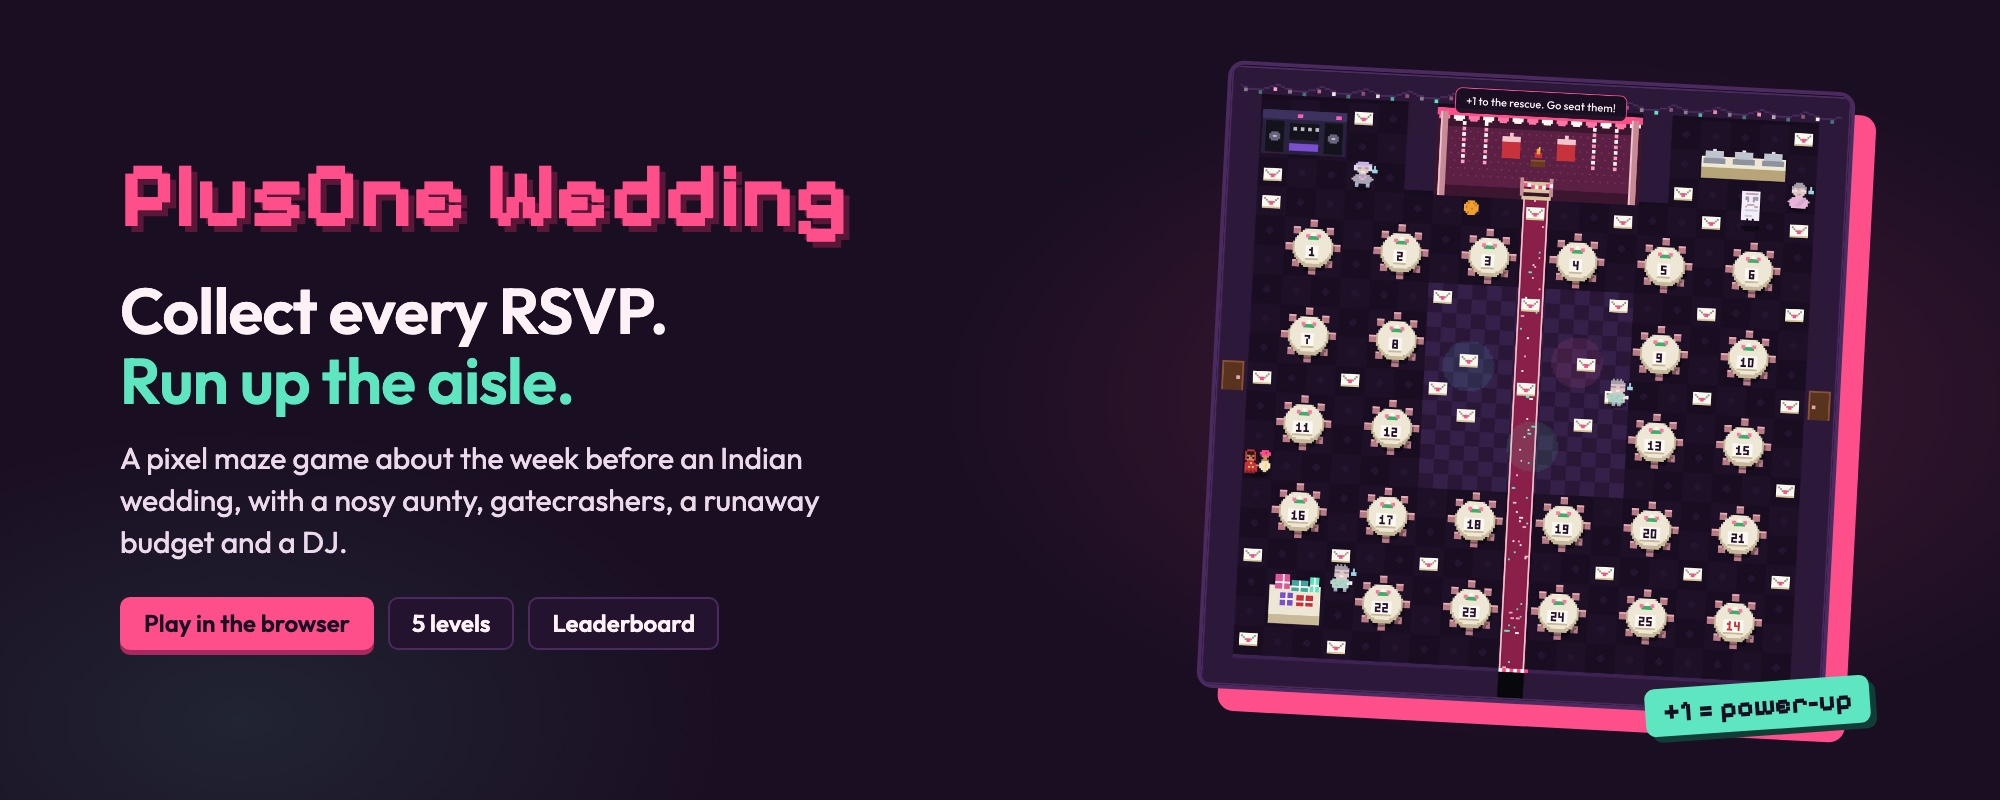
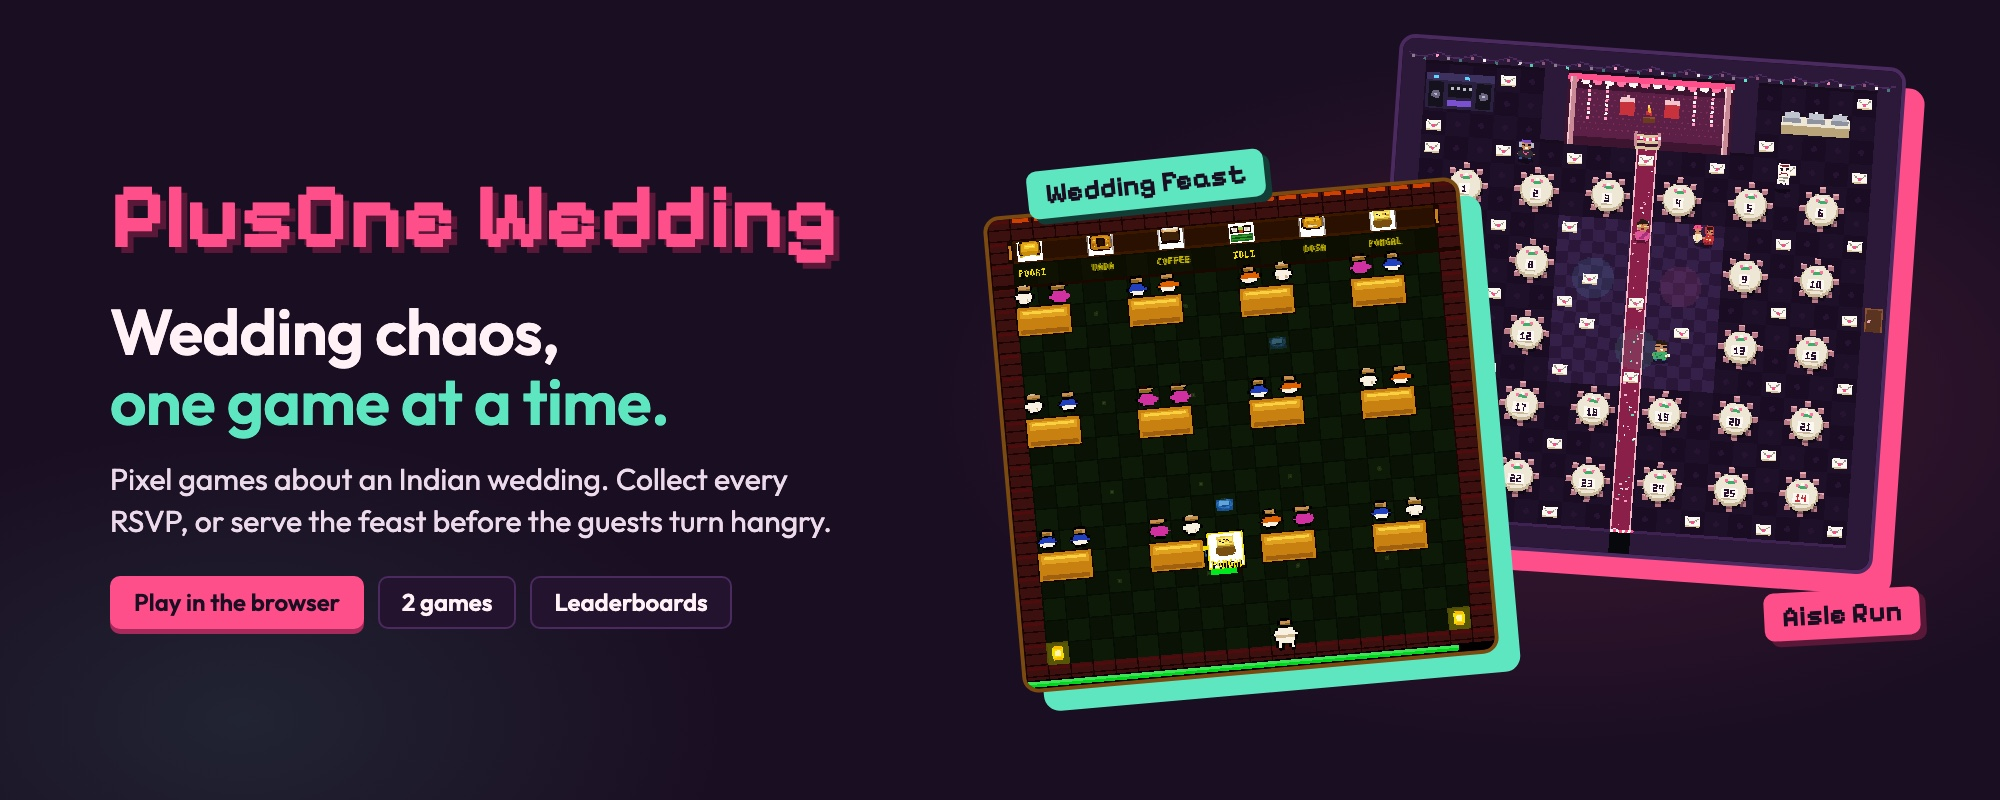
Rewrite the README for the splash, the picker and both games
New banner with both boards, fresh screenshots of the splash, the
picker, both games' rules and play, the leaderboard and phones. Adds a
Wedding Feast section, the measured checks, and the per-game folders.
Drops the stale phone rules screenshot.

diff --git a/assets/src/banner.html b/assets/src/banner.html
@@ -5,7 +5,7 @@
   html, body { margin: 0; width: 2000px; height: 800px; overflow: hidden; background: #1a0e22; }
   body { position: relative; font-family: Outfit, sans-serif; color: #fff1f5; }
   .glow { position: absolute; inset: 0; background: radial-gradient(900px 500px at 78% 50%, rgba(255, 79, 139, .18), transparent 70%), radial-gradient(700px 420px at 12% 90%, rgba(94, 230, 193, .10), transparent 70%); }
-  .left { position: absolute; left: 120px; top: 0; bottom: 0; width: 860px; display: flex; flex-direction: column; justify-content: center; }
+  .left { position: absolute; left: 110px; top: 0; bottom: 0; width: 780px; display: flex; flex-direction: column; justify-content: center; }
   .wm { font: 700 92px/1 "Pixelify Sans"; color: #ff4f8b; text-shadow: 6px 6px 0 #5a1838; margin: 0 0 34px; }
   h1 { margin: 0 0 22px; font: 600 64px/1.08 Outfit; letter-spacing: -.01em; }
   h1 span { color: #5ee6c1; }
@@ -13,18 +13,24 @@
   .chips { display: flex; gap: 14px; }
   .chip { padding: 10px 22px; border-radius: 10px; font: 600 24px/1.2 Outfit; border: 2px solid #4a2a5e; background: #24132f; }
   .chip.rose { background: #ff4f8b; border-color: #ff4f8b; color: #1a0e22; box-shadow: 0 5px 0 #a82a5c; }
-  .card { position: absolute; right: 160px; top: 76px; width: 620px; height: 620px; transform: rotate(3deg); border-radius: 16px; overflow: hidden; border: 4px solid #4a2a5e; box-shadow: 22px 22px 0 #ff4f8b; background: #140a1a; }
-  .card img { width: 100%; height: 100%; display: block; }
-  .tag { position: absolute; right: 130px; bottom: 70px; transform: rotate(-4deg); padding: 10px 18px; border-radius: 10px; background: #5ee6c1; color: #1a0e22; font: 700 28px/1 "Pixelify Sans"; box-shadow: 6px 6px 0 #123d36; }
+  .card { position: absolute; width: 500px; height: 500px; border-radius: 16px; overflow: hidden; background: #140a1a; }
+  .card img { width: 100%; height: 100%; display: block; image-rendering: pixelated; }
+  .card.aisle { right: 110px; top: 50px; transform: rotate(4deg); border: 4px solid #4a2a5e; box-shadow: 20px 20px 0 #ff4f8b; }
+  .card.feast { right: 520px; top: 196px; width: 470px; height: 470px; transform: rotate(-5deg); border: 4px solid #7a4a10; box-shadow: 20px 20px 0 #5ee6c1; }
+  .tag { position: absolute; padding: 10px 18px; border-radius: 10px; font: 700 28px/1 "Pixelify Sans"; }
+  .tag.aisle { right: 80px; top: 590px; transform: rotate(-3deg); background: #ff4f8b; color: #1a0e22; box-shadow: 6px 6px 0 #5a1838; }
+  .tag.feast { right: 735px; top: 160px; transform: rotate(-6deg); background: #5ee6c1; color: #1a0e22; box-shadow: 6px 6px 0 #123d36; }
 </style></head>
 <body>
   <div class="glow"></div>
   <div class="left">
     <div class="wm">PlusOne Wedding</div>
-    <h1>Collect every RSVP.<br><span>Run up the aisle.</span></h1>
-    <p>A pixel maze game about the week before an Indian wedding, with a nosy aunty, gatecrashers, a runaway budget and a DJ.</p>
-    <div class="chips"><span class="chip rose">Play in the browser</span><span class="chip">5 levels</span><span class="chip">Leaderboard</span></div>
+    <h1>Wedding chaos,<br><span>one game at a time.</span></h1>
+    <p>Pixel games about an Indian wedding. Collect every RSVP, or serve the feast before the guests turn hangry.</p>
+    <div class="chips"><span class="chip rose">Play in the browser</span><span class="chip">2 games</span><span class="chip">Leaderboards</span></div>
   </div>
-  <div class="card"><img src="../screens/power.jpg" alt=""></div>
-  <div class="tag">+1 = power-up</div>
+  <div class="card aisle"><img src="../../public/games/aisle-run/thumb.png" alt=""></div>
+  <div class="card feast"><img src="../../public/games/wedding-feast/thumb.png" alt=""></div>
+  <div class="tag feast">Wedding Feast</div>
+  <div class="tag aisle">Aisle Run</div>
 </body></html>

diff --git a/README.md b/README.md
@@ -1,10 +1,13 @@
 <div align="center">
 
-<img src="assets/banner.jpg" width="100%" alt="PlusOne Wedding banner: the pixel banquet hall with tables, RSVP envelopes and the mandap, beside the line Collect every RSVP. Run up the aisle.">
+<img src="assets/banner.jpg" width="100%" alt="PlusOne Wedding banner: the line Wedding chaos, one game at a time, beside the boards of Wedding Feast and Aisle Run on tilted cards">
 
 # PlusOne Wedding
 
 [![Play now](https://img.shields.io/badge/Play_now-plusonewedding.site-ff4f8b?style=for-the-badge&logo=googlechrome&logoColor=white)](https://plusonewedding.site)
+[![Aisle Run](https://img.shields.io/badge/Aisle_Run-play-5ee6c1?style=for-the-badge&labelColor=1a0e22)](https://plusonewedding.site/games/aisle-run/)
+[![Wedding Feast](https://img.shields.io/badge/Wedding_Feast-play-5ee6c1?style=for-the-badge&labelColor=1a0e22)](https://plusonewedding.site/games/wedding-feast/)
+[![Add a game](https://img.shields.io/badge/Add_a_game-CONTRIBUTING.md-c4a8c8?style=for-the-badge&labelColor=1a0e22)](CONTRIBUTING.md)
 
 ![Studio](https://img.shields.io/badge/studio-Devs_on_Crack-ff4f8b?style=flat-square&labelColor=1a0e22)
 ![Genre](https://img.shields.io/badge/genre-wedding--chaos_games-5ee6c1?style=flat-square&labelColor=1a0e22)
@@ -14,9 +17,9 @@
 
 <table align="center">
   <tr>
-    <td align="center" width="200"><img src="assets/logos/html5.svg" width="56" height="56" alt="HTML5"><br><b>HTML Canvas</b><br><sub>The game. Pixel art drawn in code, at 336 × 336, scaled up crisp.</sub></td>
-    <td align="center" width="200"><img src="assets/logos/cloudflareworkers.svg" width="56" height="56" alt="Cloudflare Workers"><br><b>Cloudflare Workers</b><br><sub>The platform. Serves the site and the leaderboard API.</sub></td>
-    <td align="center" width="200"><img src="assets/logos/sqlite.svg" width="56" height="56" alt="SQLite"><br><b>Cloudflare D1</b><br><sub>The memory. Keeps every saved name and score.</sub></td>
+    <td align="center" width="200"><img src="assets/logos/html5.svg" width="56" height="56" alt="HTML5"><br><b>HTML Canvas</b><br><sub>The games. Pixel art drawn in code, at 336 × 336, scaled up crisp.</sub></td>
+    <td align="center" width="200"><img src="assets/logos/cloudflareworkers.svg" width="56" height="56" alt="Cloudflare Workers"><br><b>Cloudflare Workers</b><br><sub>The platform. Serves the site and every game's leaderboard API.</sub></td>
+    <td align="center" width="200"><img src="assets/logos/sqlite.svg" width="56" height="56" alt="SQLite"><br><b>Cloudflare D1</b><br><sub>The memory. Keeps every saved name and score, game by game.</sub></td>
   </tr>
 </table>
 
@@ -26,14 +29,24 @@
 
 </div>
 
-PlusOne Wedding is a set of pixel games about Indian weddings. The home page is a game picker; each game has its own page and its own leaderboard. They run in any browser, on a phone or a laptop, with nothing to install.
+PlusOne Wedding is a set of pixel games about Indian weddings. They run in any browser, on a phone or a laptop, with nothing to install. The site opens on the Devs on Crack splash, then a game picker. Each game has its own page, its own controls and its own leaderboard.
 
-- **Aisle Run** (`/games/aisle-run/`): a maze game about the week before the wedding. You play the couple-to-be, racing round a banquet hall to collect every guest's RSVP while the wedding chaos tries to stop you. Get every RSVP in, then run up the aisle to the mandap.
-- **Wedding Feast** (`/games/wedding-feast/`): you're the server at a South Indian wedding. Grab the right dish off the food belt and get it to the table before the guests turn hangry.
+- **Aisle Run**: the week before the wedding. You're the couple-to-be, collecting every guest's RSVP round a banquet hall while the wedding chaos tries to stop you, then running up the aisle to the mandap.
+- **Wedding Feast**: the wedding lunch. You're the server at a South Indian wedding, taking the right dish off the food belt to the right table before the guests turn hangry.
 
-Made by **Devs on Crack**. This repository is the home of the wedding-themed games on plusonewedding.site.
+Made by **Devs on Crack**. This repository is the home of the wedding games on plusonewedding.site, and more are on the way.
 
-## Aisle Run: how it plays
+## How it opens
+
+1. **The splash.** "Devs on Crack" in pixel type over a pixel loading bar. It holds until the fonts and game boards have loaded, then fades to the picker. It shows once per visit, and a click or key press skips it.
+2. **The picker.** One card per game: a real frame from the game's board, its name, one line on what you do, and your best score once you've played.
+3. **The game.** Every game opens on its rules card with a Start button, so nothing moves until you're ready. The **‹** button at the top left goes back to the picker.
+
+| The splash | The picker |
+|---|---|
+| ![The Devs on Crack splash with its pixel loading bar](assets/screens/splash.jpg) | ![The game picker with cards for Aisle Run and Wedding Feast](assets/screens/picker.jpg) |
+
+## Aisle Run
 
 1. **Read the rules.** A pop-up explains the game, the four steps, the power-ups and the chaos before the first game. The **How to play** button brings it back at any time.
 2. **Collect every RSVP.** There are 49 envelopes around the hall. You start with **three days** until the wedding, and the days carry across all five levels.
@@ -43,11 +56,9 @@ Made by **Devs on Crack**. This repository is the home of the wedding-themed gam
 
 | The rules, before the first game | The board, mid-level |
 |---|---|
-| ![Rules pop-up](assets/screens/rules.jpg) | ![The banquet hall mid-level](assets/screens/play.jpg) |
+| ![Aisle Run's rules pop-up](assets/screens/rules.jpg) | ![The banquet hall mid-level](assets/screens/play.jpg) |
 
 <p align="center"><img src="assets/screens/power.jpg" width="640" alt="The +1 power-up in play: the chaos turns pastel and runs from the couple"></p>
-
-### The chaos
 
 | Character | What it does |
 |---|---|
@@ -58,43 +69,69 @@ Made by **Devs on Crack**. This repository is the home of the wedding-themed gam
 
 Seated by the +1, Aunty goes to Table 14, far from the mic. The gatecrasher gets a polite name card, the invoice gets negotiated down, and the DJ finally plays your song. Snacks float across the hall for extra points: a laddoo, a mehendi cone, and a slice of cake the caterer swore was gluten-free.
 
-### Levels
+**Levels:** Mehendi, Sangeet, Haldi, Wedding day, Reception. Every level uses the same hall and gets harder: more gatecrashers, a faster budget, a quicker aunty and DJ, and a shorter +1.
 
-Mehendi, Sangeet, Haldi, Wedding day, Reception. Every level uses the same hall and gets harder: more gatecrashers, a faster budget, a quicker aunty and DJ, and a shorter +1. Clearing Reception says "New levels coming soon."
+## Wedding Feast
 
-### Leaderboard
+1. **Watch the tables.** A dish floats above every table with an order, and the bar under it is the time left.
+2. **Go to the food belt.** Dishes ride along the belt at the top of the hall. Step under the one a table wants and you pick it up.
+3. **Rush it over.** Get close to the table and the dish is served. A fast delivery scores 250, a slower one 175, a late-but-made-it one 100.
+4. **Don't be late.** An order that runs out starts a fight between relatives, and the wedding's happiness drops. At zero, the feast is over.
+5. **Watch your step.** A monkey crashes the hall and slows you down if it catches you, and stepping in a sambar puddle with a dish in hand makes you drop it.
 
-At game over, or after clearing all five levels, players put their name on the public leaderboard. The top 20 show from the **Leaderboard** button.
-
-| The leaderboard | On a phone |
+| The rules, before the first round | Breakfast, with two orders up |
 |---|---|
-| ![Leaderboard](assets/screens/leaderboard.jpg) | <img src="assets/screens/phone-play.jpg" width="320" alt="The game on a phone, with the direction pad"> |
+| ![Wedding Feast's rules pop-up](assets/screens/feast-rules.jpg) | ![Wedding Feast mid-round: the food belt along the top, tables with guests, and orders for Pongal and Coffee](assets/screens/feast-play.jpg) |
 
-## Wedding Feast: how it plays
+| Round | Tables | Dishes | Pace |
+|---|---|---|---|
+| **Breakfast** | 12 | Idli, Dosa, Pongal, Poori, Vada, Coffee | Generous time, a slow belt |
+| **Lunch** | 16 | Rice, Sambar, Rasam, Kootu, Payasam, Appam | Medium |
+| **Dinner** | 20 | Biryani, Parotta, Cake, Pasta, Ice cream, Halwa | Fast orders, a fast belt |
 
-Orders float above the tables, each with a timer. Walk to the food belt along the top of the hall, step under the dish a table wants to pick it up, and carry it over before the timer runs out. A late order starts a fight between relatives and the wedding's happiness drops; at zero, the feast is over. Three rounds, each with more tables, faster orders and a faster belt: **Breakfast** (12 tables), **Lunch** (16) and **Dinner** (20). Scores go on their own leaderboard.
+Clearing a round banks a bonus of 5 points for every percent of happiness left.
+
+## Leaderboards
+
+Each game has its own public leaderboard. At game over, or after the last level or round, players put their name on it. The top 20 show from the **Leaderboard** button.
+
+<p align="center"><img src="assets/screens/leaderboard.jpg" width="760" alt="Aisle Run's leaderboard"></p>
+
+On a phone, the picker becomes a list and every game gets a direction pad:
+
+<p align="center"><img src="assets/screens/phone-picker.jpg" width="300" alt="The game picker on a phone">&nbsp;&nbsp;&nbsp;<img src="assets/screens/phone-play.jpg" width="300" alt="Aisle Run on a phone, with the direction pad"></p>
+
+## Checked
+
+| What | Result | How |
+|---|---|---|
+| One screen, no scroll | Fits at 1280 × 800, 1440 × 900, 390 × 750 and 360 × 740, on the picker and both games | Headless Chrome with CDP device emulation, `scrollHeight` against `clientHeight` and `scrollWidth` against `clientWidth`, 2 November 2026 |
+| Top bars on phones | No button runs past the 16 px gutter at 390 or 360 wide | Same run |
+| Wedding Feast name entry | Typing "Sandra wade" into the name box keeps every letter; P pauses and Esc resumes | Real key events through CDP |
+| Live site | `/`, both games and both leaderboard APIs return 200; old `/?beat=` links redirect to Aisle Run | `curl` against plusonewedding.site |
 
 ## The tech, part by part
 
 | Part | Built with | What it does |
 |---|---|---|
-| Game engine | Plain JavaScript and HTML Canvas, `public/games/<game>/game.js` | A 21 × 21 tile hall drawn at 336 × 336 and scaled up pixel-sharp. Grid movement with turn buffering, breadth-first pathfinding for the chasers, and a frame loop with a capped time step. |
-| Pixel art | String-map sprites in each game's `game.js` | Every character, table and pickup is drawn from code; the pastel "panic" versions are recoloured at load. |
-| Sound | Web Audio API | A shehnai-style tune, dhol beats and every sound effect are synthesised in the browser. No audio files. |
-| Game picker | `public/index.html`, `public/home.css` | The home page: one card per game, with a real frame from the game and this browser's best score. |
+| Splash and picker | `public/index.html`, `public/home.css` | The Devs on Crack loading screen, then one card per game with a frame from its board and the player's best score. |
+| Game engines | Plain JavaScript and HTML Canvas, `public/games/<game>/game.js` | Each game draws a 336 × 336 board and scales it up pixel-sharp. Aisle Run is a 21 × 21 tile hall with turn buffering and breadth-first pathfinding for the chasers; Wedding Feast is a tile hall with a moving food belt, timed orders and roaming hazards. Both run a frame loop with a capped time step. |
+| Pixel art | String-map sprites in each game's `game.js` | Every character, table, dish and pickup is drawn from code. |
+| Sound | Web Audio API | Tunes, beats and every sound effect are synthesised in the browser. No audio files. |
 | Page and layout | Each game's `index.html` and `style.css` | One screen with no scrolling: the board grows to fit, with a touch pad on phones. Pixelify Sans and Outfit from Google Fonts. |
-| Hosting | Cloudflare Workers with static assets, `worker.js`, `wrangler.toml` | Serves the site on `plusonewedding.site` and `www`, and redirects `www` to the apex. |
-| Leaderboard API | `worker.js` | Aisle Run: `POST /api/run` starts a run, `POST /api/score` saves one score per run, `GET /api/leaderboard` returns the top 20. Wedding Feast has the same three under `/api/feast/`. |
+| Hosting | Cloudflare Workers with static assets, `worker.js`, `wrangler.toml` | Serves `plusonewedding.site` and redirects `www` to the apex. Old `/?beat=N` share links redirect to Aisle Run. |
+| Leaderboard APIs | `worker.js` | Aisle Run: `POST /api/run` starts a run, `POST /api/score` saves one score per run, `GET /api/leaderboard` returns the top 20. Wedding Feast has the same three under `/api/feast/`. |
 | Leaderboard data | Cloudflare D1 `plusone-wedding-scores`, `schema.sql` | `runs` and `scores` for Aisle Run, `feast_runs` and `feast_scores` for Wedding Feast. |
-| Fair play | `worker.js` | Each run saves once, a score must be reachable in the time played, and names with common English and Hindi slurs are refused. |
+| Fair play | `worker.js` | Each run saves once, names with common English and Hindi slurs are refused, and a score must be reachable in the time played. Aisle Run allows up to 500 points a second; Wedding Feast up to 200 a second, a maximum of 40,000, and later rounds only after the time it takes to reach them. |
 
 ## Run it yourself
 
-You need a current Node LTS, and a Cloudflare account for the leaderboard.
+You need a current Node LTS, and a Cloudflare account for the leaderboards.
 
 ```bash
 gh repo clone padmanabhan-r/plusonewedding-games && cd plusonewedding-games
-npx wrangler dev          # site and leaderboard API on http://localhost:8787
+npx wrangler d1 execute plusone-wedding-scores --local --file schema.sql   # local database, once
+npx wrangler dev                                                           # site and leaderboard APIs on http://localhost:8787
 ```
 
 The games also run without the API (the leaderboards just won't load):
@@ -110,13 +147,6 @@ npx wrangler d1 execute plusone-wedding-scores --remote --file schema.sql
 npx wrangler deploy
 ```
 
-First-time database setup, already done for the live site:
-
-```bash
-npx wrangler d1 create plusone-wedding-scores
-npx wrangler d1 execute plusone-wedding-scores --remote --file schema.sql
-```
-
 There are no environment variables. The Worker's only bindings are `ASSETS` (the `public/` folder) and `DB` (the D1 database), both in `wrangler.toml`.
 
 ## Status and limits
@@ -125,34 +155,31 @@ Live at [plusonewedding.site](https://plusonewedding.site) with two games, sound
 
 - All five Aisle Run levels share one hall layout.
 - The fair-play checks stop casual cheating, not a determined script.
-- The leaderboard shows the top 20; ranks beyond that are only shown to the player who saved.
+- Each leaderboard shows the top 20; ranks beyond that are only shown to the player who saved.
 
 ## Next steps
 
-- **New levels:** new halls with their own layouts.
-- **More games:** more wedding-themed games, each in its own folder (see [Adding a game](#adding-a-game)).
-- **Weekly leaderboard:** a this-week board beside the all-time one.
+- **More games:** more wedding-themed games, each in its own folder. [CONTRIBUTING.md](CONTRIBUTING.md) has the steps.
+- **New Aisle Run levels:** new halls with their own layouts.
+- **Weekly leaderboards:** a this-week board beside the all-time one, for every game.
 
 ## Adding a game
 
-1. Make a folder `public/games/<slug>/` with the game's own `index.html`, `game.js` and `style.css`. Use absolute paths to its files (`/games/<slug>/game.js`), and a home button in the top bar linking to `/` (copy the `.brand` markup from an existing game).
-2. Add a 336 × 336 `thumb.png`: a frame from the game's canvas.
-3. Add a card for it in `public/index.html`.
-4. If it has a leaderboard, give it its own tables in `schema.sql` and its own routes under `/api/<slug>/` in `worker.js`.
-5. Check every page still fits one screen at 1280 × 800, 1440 × 900 and 390 × 750.
+Each game is self-contained in `public/games/<slug>/` and gets one card on the picker. [CONTRIBUTING.md](CONTRIBUTING.md) lists what every game needs: a Start button, the home button, one screen at the three sizes, and its own leaderboard routes and tables. It also covers how to open a pull request.
 
 ## Repository
 
 | Path | What it is |
 |---|---|
-| `public/index.html`, `public/home.css` | The game picker (home page) |
+| `public/index.html`, `public/home.css` | The Devs on Crack splash and the game picker (home page) |
 | `public/games/aisle-run/` | Aisle Run: `index.html`, `game.js` (map, sprites, movement, chasers, power-ups, sound, leaderboard client), `style.css`, `thumb.png` |
-| `public/games/wedding-feast/` | Wedding Feast: `index.html`, `game.js`, `style.css`, `thumb.png` |
+| `public/games/wedding-feast/` | Wedding Feast: `index.html`, `game.js` (hall, food belt, orders, hazards, sound, leaderboard client), `style.css`, `thumb.png` |
 | `public/og.png`, `public/favicon.svg` | Share card and icon, shared by every page |
-| `worker.js` | Cloudflare Worker: static files, `www` redirect, old `/?beat=` share links, both leaderboard APIs |
+| `worker.js` | Cloudflare Worker: static files, redirects, both leaderboard APIs |
 | `schema.sql` | D1 tables for both games' runs and scores |
 | `wrangler.toml` | Worker name, custom domains, assets and D1 bindings |
-| `assets/` | README banner (with its HTML source), screenshots and logos |
+| `CONTRIBUTING.md` | How to set up, where a game goes, what it needs, and how to open a pull request |
+| `assets/` | README banner (with its HTML source in `assets/src/`), screenshots and logos |
 
 Check every script parses before deploying:
 
